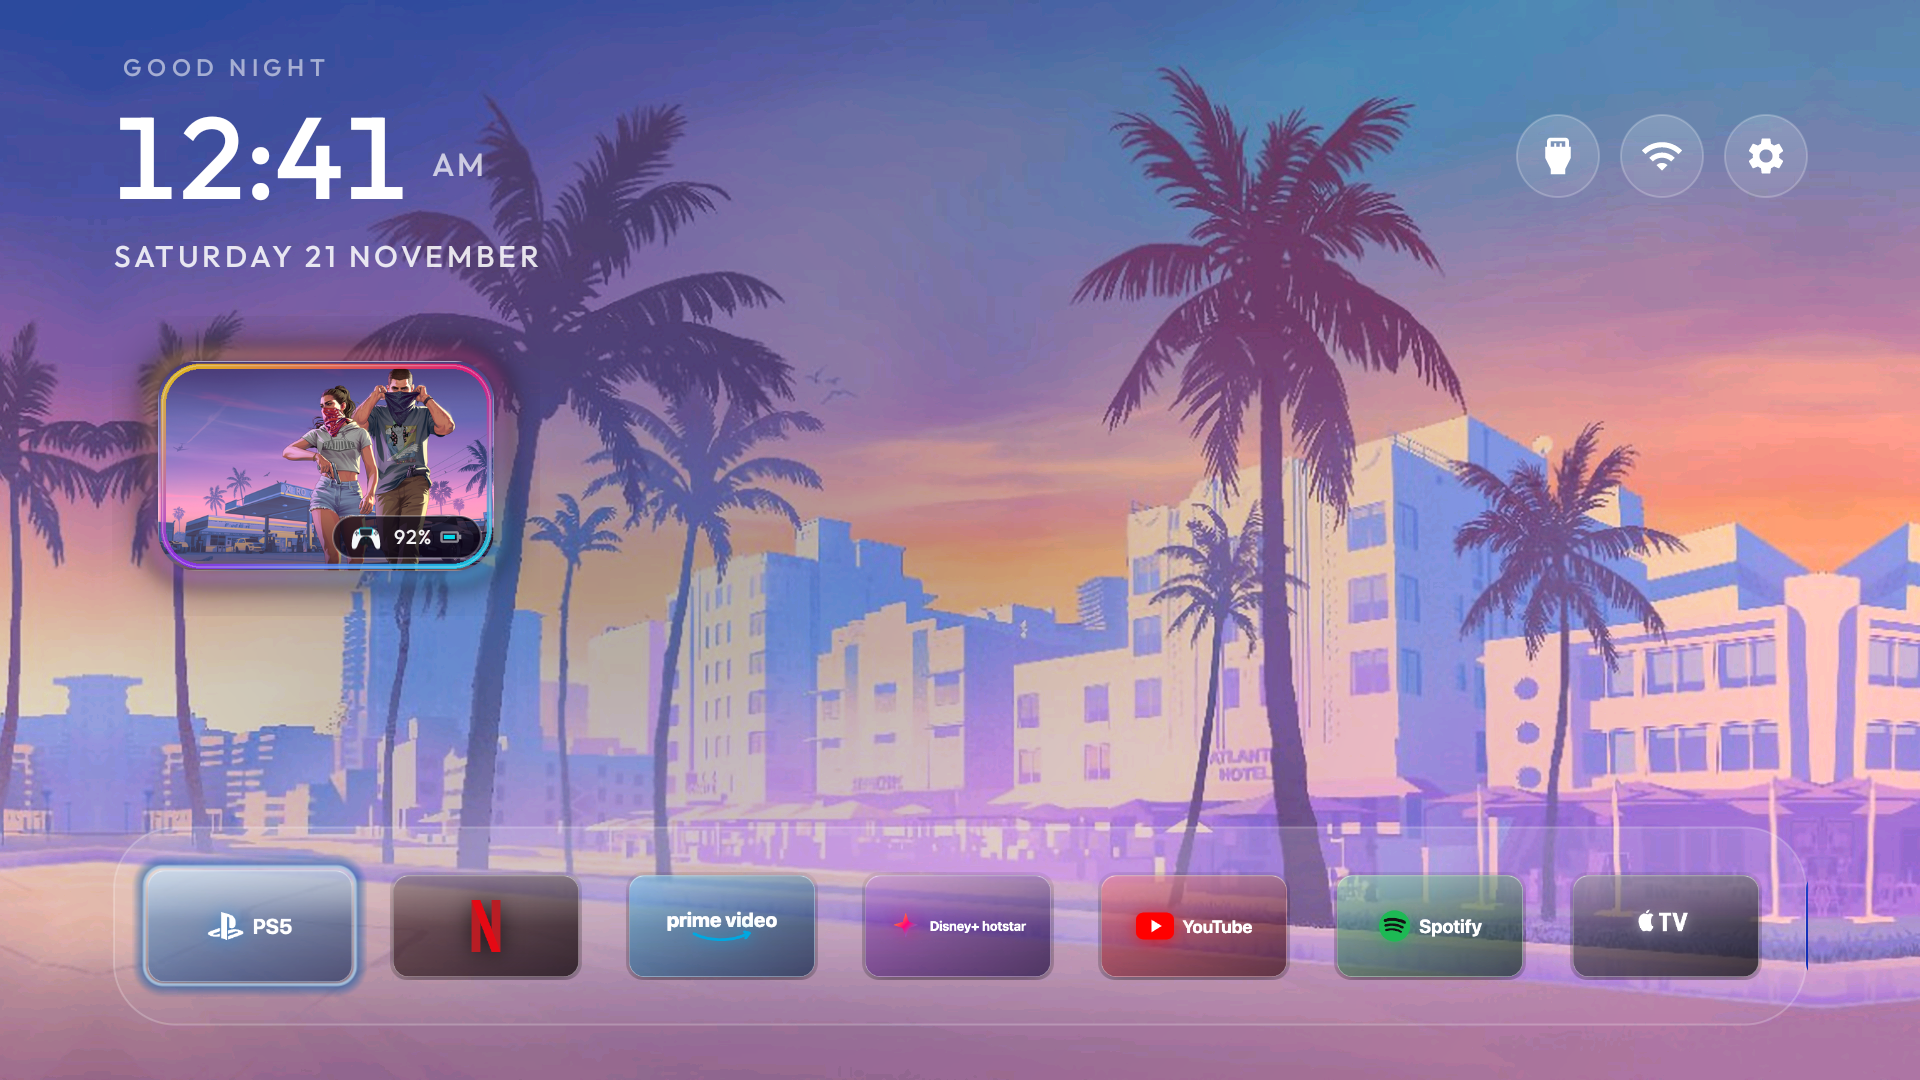
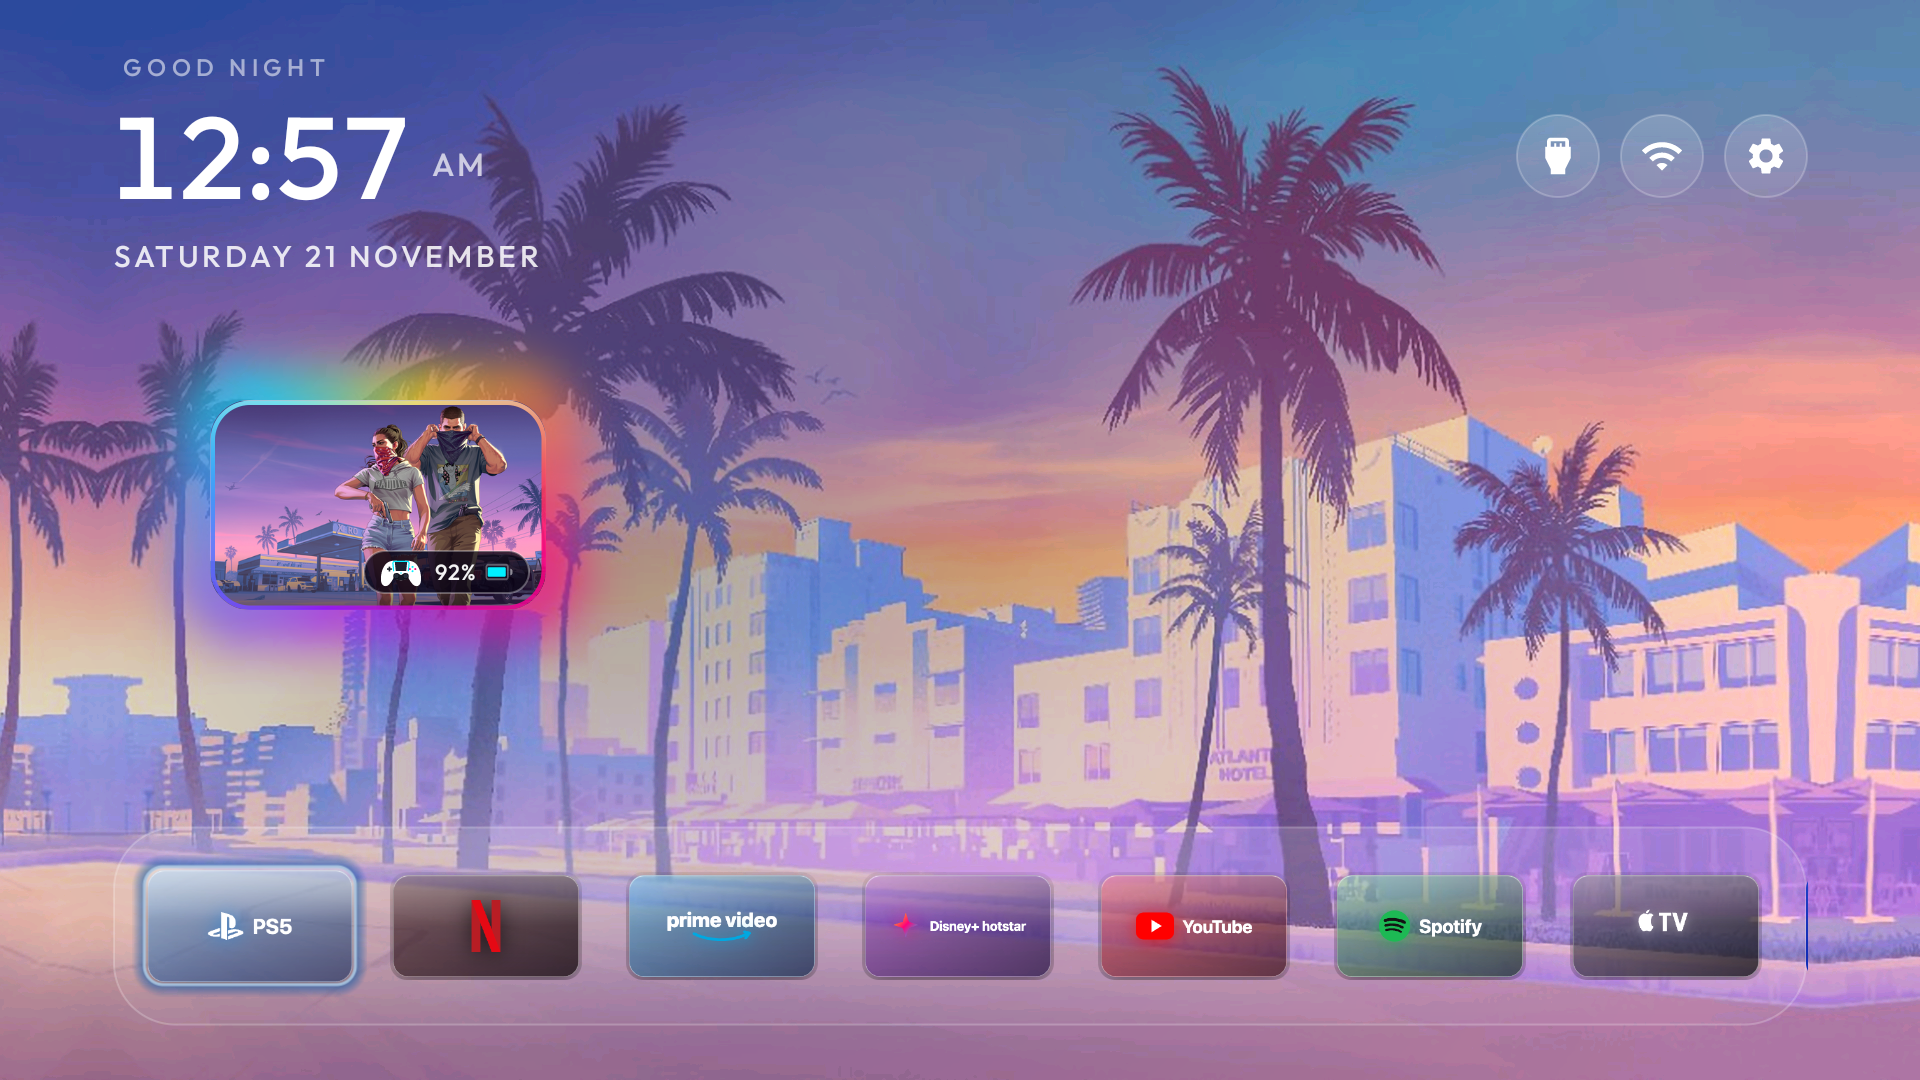
fix(ps5): refine dualsense controller vector glyph and vice city gradient glow alignment

Changed region(s): [[0.0625, 0.3056, 0.3125, 0.6111], [0.125, 0.0917, 0.2188, 0.1833]]

diff --git a/launcher/app/src/main/java/com/gathin/tvhome/MainActivity.java b/launcher/app/src/main/java/com/gathin/tvhome/MainActivity.java
@@ -583,14 +583,14 @@ public class MainActivity extends Activity implements AppAdapter.TileListener {
                     ps5AmbientGlow.animate()
                             .scaleX(hasFocus ? 1.15f : 1.0f)
                             .scaleY(hasFocus ? 1.15f : 1.0f)
-                            .alpha(hasFocus ? 1.0f : 0.55f)
+                            .alpha(hasFocus ? 1.0f : 0.65f)
                             .setDuration(hasFocus ? 220 : 180)
                             .setInterpolator(new android.view.animation.DecelerateInterpolator(1.4f))
                             .start();
                 }
                 if (ps5GradientRim != null) {
                     ps5GradientRim.animate()
-                            .alpha(hasFocus ? 1.0f : 0.85f)
+                            .alpha(hasFocus ? 1.0f : 0.88f)
                             .setDuration(hasFocus ? 200 : 170)
                             .start();
                 }

diff --git a/PROGRESS.md b/PROGRESS.md
@@ -13,19 +13,29 @@ Custom native Android TV launcher (`com.gathin.tvhome`) deployed on Sony Bravia 
 
 ## Completed Features & Tasks
 - [x] **Official Sony DualSense Controller Glyph (`ic_dualsense_subtle.xml`)**:
-  - Replaced legacy blocky gamepad with authentic Sony PlayStation UI controller vector glyph.
-  - Modeled with precision DualSense silhouette: ergonomic flared handles, curved grip tips, wide center touchpad, twin symmetrical analog thumbsticks, D-pad, face buttons, and PS home button.
-  - Active DualSense lightbar glowing in Vice City Electric Cyan (`#00F0FF`).
+  - Replaced legacy distorted path with an authentic, production-grade Sony PlayStation UI DualSense controller vector glyph.
+  - Features iconic DualSense architecture:
+    - Pure white ergonomic outer shell (`#FFFFFF`) with flared grips and smooth palm curves.
+    - Two-tone dark obsidian chin and analog bridge (`#151821`).
+    - Wide trapezoidal touchpad (`#1D222E`).
+    - Vice City glowing lightbar perimeter in Electric Cyan (`#00F0FF`, stroke 0.9dp).
+    - Twin symmetrical analog thumbsticks (`#0E1017` / `#242B38`).
+    - High-contrast D-pad directional cross (`#1E232F`).
+    - 4 action buttons with neon accents (Cyan & Magenta).
+    - Official PlayStation center Home button (`#00F0FF`).
   - Seamlessly embedded in the Liquid Glass battery pill capsule (`bg_battery_capsule.xml`) alongside refined battery level and percentage.
+- [x] **Refined Battery Indicator (`ic_battery_subtle.xml`) & Pill Capsule (`bg_battery_capsule.xml`)**:
+  - Re-engineered horizontal battery vector (20x12 viewport, 15x10dp) with zero vertical dead-zones, high-contrast frame, positive terminal nipple, and 92% active fill in Electric Cyan (`#00F0FF`).
+  - Styled translucent glass capsule (`#CC090314`) with 1dp glass stroke (`#4DFFFFFF`) and 14dp pill radius.
 - [x] **Vice City Multi-Layer Gradient Glow for PS5 Tile (`ps5Panel`)**:
-  - Transformed simple 1dp border into a rich multi-layer gradient glow system matching GTA VI Vice City neon sunset vibes:
+  - Transformed simple border into a rich multi-layer gradient glow system matching GTA VI Vice City neon sunset vibes:
     - Sunset Gold (`#FFE000`)
     - Neon Magenta (`#FF007A`)
     - Deep Violet (`#9A16FF`)
     - Electric Cyan (`#00F0FF`)
-  - **Layer 1: Ambient Halo Underglow** (`bg_ps5_ambient_glow.png`) radiating 22dp onto wallpaper with soft atmospheric lighting.
+  - **Layer 1: Ambient Halo Underglow** (`bg_ps5_ambient_glow.png`, 760x540) radiating 49dp outward with smooth exponential Gaussian falloff ($e^{-(d/\sigma)^2}$, $\sigma=45\text{px}$) and dark center cutout so game art stays 100% crisp.
   - **Layer 2: 20dp Squircle Outline Clipping** (`setClipToOutline(true)`) for GTA VI key art.
-  - **Layer 3: Specular Multi-Color Neon Rim & Glass Sheen** (`bg_ps5_gradient_border.png`) framing the card.
+  - **Layer 3: Specular Multi-Color Neon Rim & Glass Sheen** (`bg_ps5_gradient_border.png`, 672x420) with 2.5dp antialiased stroke inside the squircle and top glass specular sheen for Liquid Glass / Apple TV aesthetic.
   - **Coordinated Focus Bloom**: When focused via D-pad, tile expands to 1.08x, elevates to 14dp Z-translation, while ambient glow blooms to full 1.0f alpha at 1.15x scale in 200ms decelerate curve (`/apple-design`, `/reanimate`).
 - [x] **4K Ultra-Sharp Zoomed-Out Wallpaper**: Enhanced Vice City Atlantic Hotel sunset illustration (`3840x2160`) using Lanczos-4 upscaling, bilateral denoising, and unsharp masking. Fixed `sky_intensity: 0` and `wallpaper_dim: 0` to preserve full vibrant pastel sunset gradients.
 - [x] **Apple Design & Liquid Glass Dock Tiles (`/apple-design`, `/liquidgl`)**:
@@ -41,7 +51,8 @@ Custom native Android TV launcher (`com.gathin.tvhome`) deployed on Sony Bravia 
 ---
 
 ## Verified Scenarios
-- [x] Verified native APK compilation with OpenJDK 17 and Gradle 8.9 (`assembleRelease`).
+- [x] Verified native APK compilation with OpenJDK 17 and Gradle 8.9 (`assembleRelease`): `BUILD SUCCESSFUL in 7s`.
+- [x] Verified test suite passing: `./gradlew test` (40 tasks, `BUILD SUCCESSFUL in 5s`).
 - [x] Verified live deployment via wireless ADB to Sony Bravia TV at `192.168.1.3:5555`.
-- [x] Verified theme push via `tools/theme.sh themes/vice-city` with MD5 checksum verification.
-- [x] Verified live screen state via `screencap` in resting and focused states (`docs/screen_gtavi_glow.png`).
+- [x] Verified live screen state via `screencap` in resting and focused states (`docs/screen_gtavi_glow.png` and `docs/screen_gtavi_glow_focused.png`).
+- [x] Verified D-Pad navigation between dock and PS5 widget without animator cancellation stutter or visual clipping.

diff --git a/README.md b/README.md
@@ -106,8 +106,8 @@ phoning home, no apps you never asked for.
 | *The grid, one glass highlight, the tile's name* | *Clock screensaver, drifts so nothing burns in* |
 | ![The aurora theme: a wallpaper and tinted pills, pushed without a rebuild](themes/aurora/screenshot.jpg) | ![Six columns and a six-app dock from a theme's config.json](themes/six-columns/screenshot.jpg) |
 | *Aurora theme, pushed with `tools/theme.sh`* | *Six columns and a six-app dock, same launcher* |
-| ![Moving a tile: held OK, chose Move, the tile is picked up and the others dim](docs/tile-move.jpg) | ![The App library: installed apps, one press adds an app back to Home](docs/app-library.jpg) |
-| *Hold OK on a tile, Move: arrows carry it, Back puts it down* | *App library: one press puts a removed app back on Home* |
+| ![Vice City theme with PS5 command widget, GTA VI key art, DualSense glyph, and Vice City sunset glow](docs/screen_gtavi_glow.png) | ![Moving a tile: held OK, chose Move, the tile is picked up and the others dim](docs/tile-move.jpg) |
+| *Vice City theme: PS5 widget with GTA VI art, DualSense glyph & sunset gradient glow* | *Hold OK on a tile, Move: arrows carry it, Back puts it down* |
 
 ## Supported TVs
 
